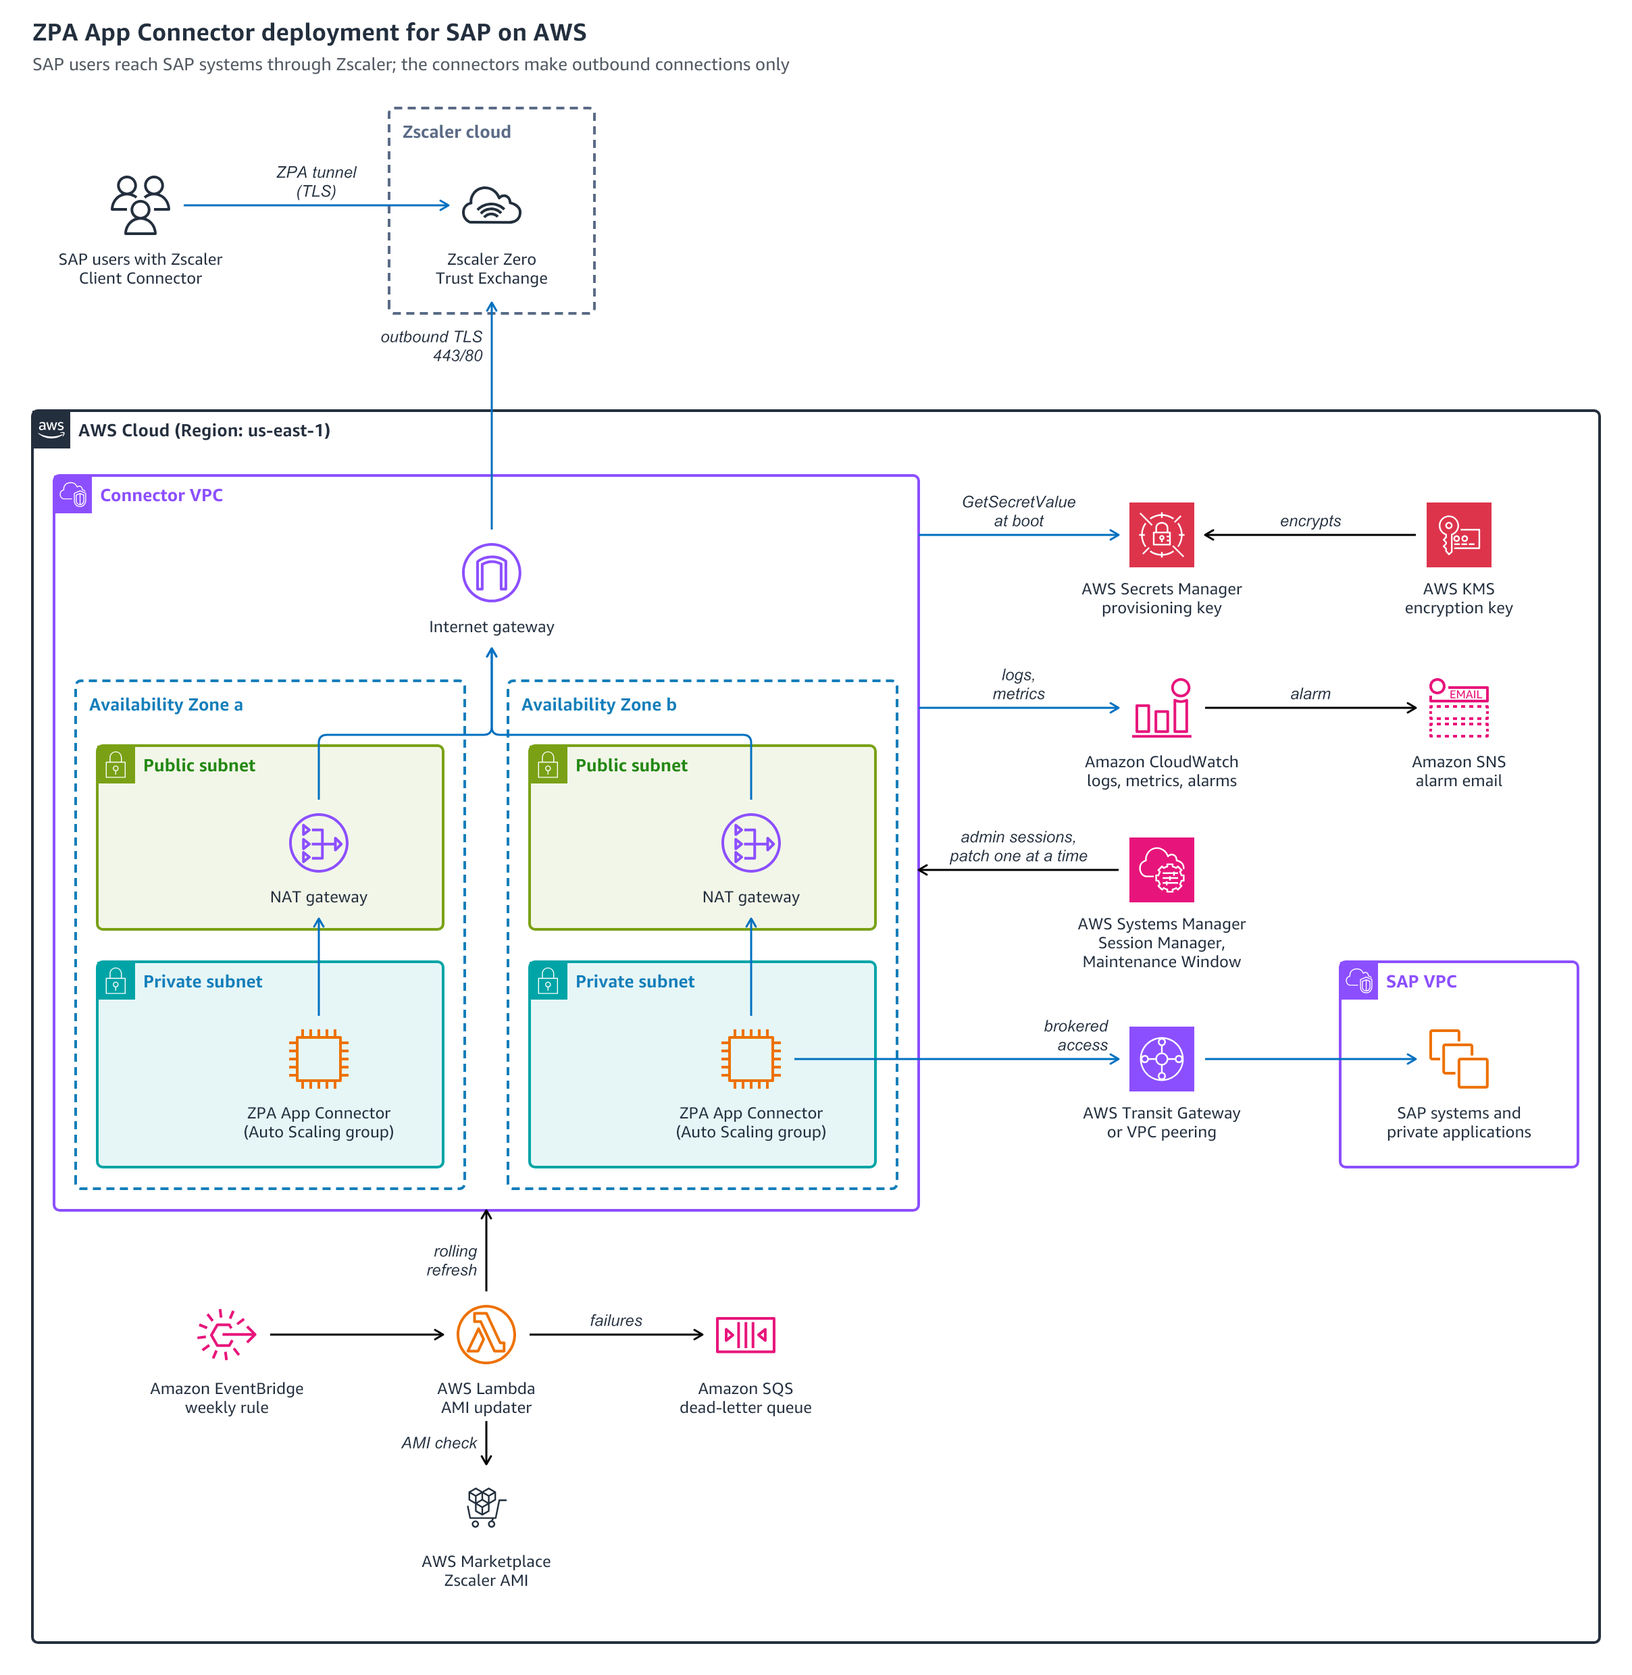
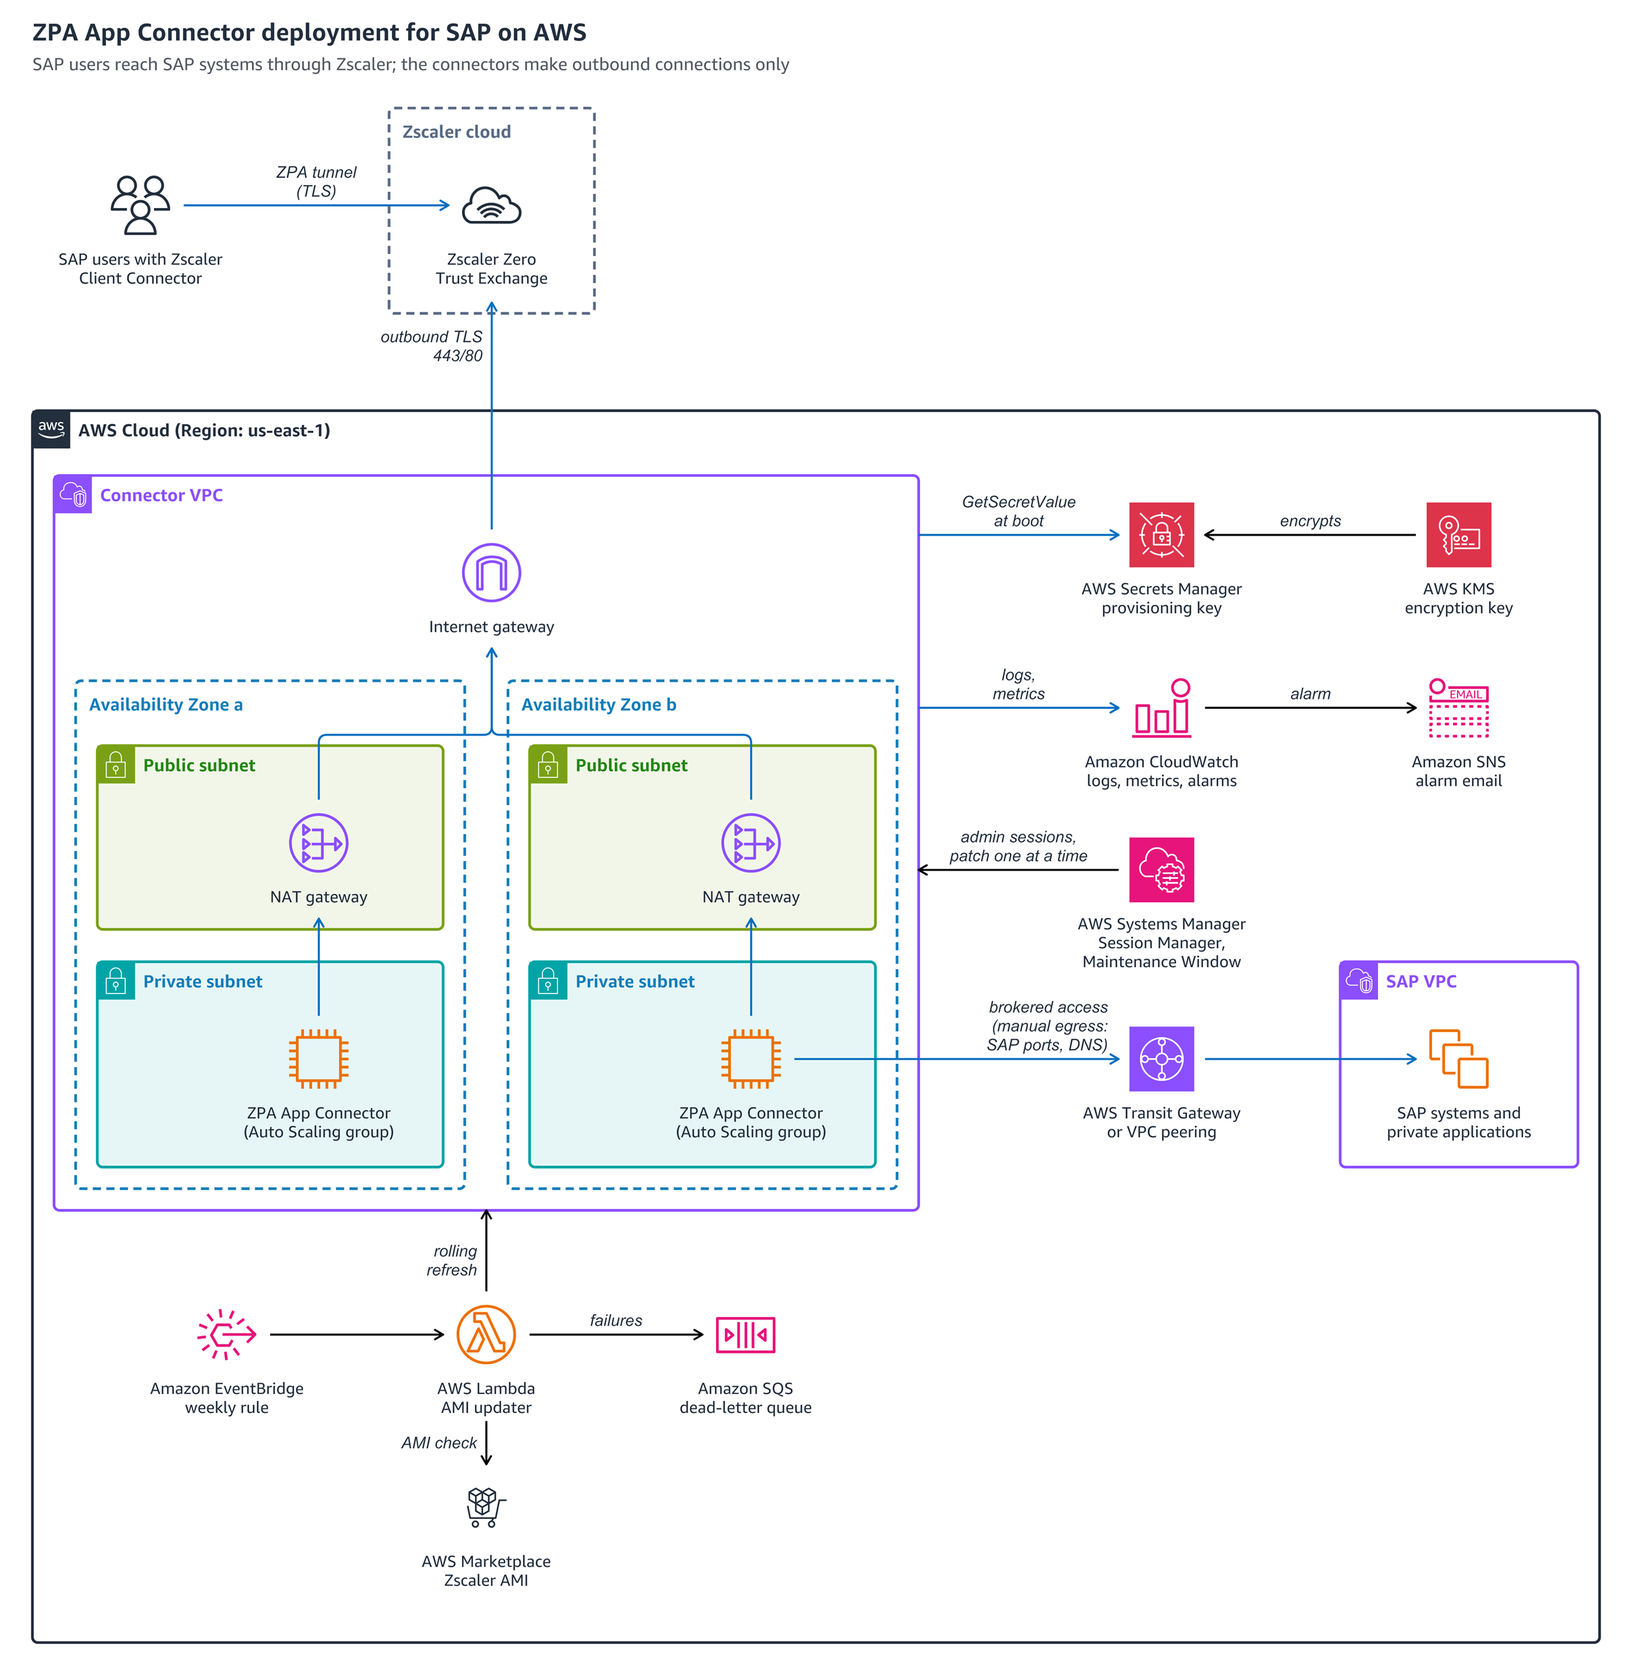
Move DNS egress to the manual post-deployment step
The stack no longer creates DNS egress rules or takes a dnsServerCidrs
parameter. The connector security group allows TCP 443 and TCP 80 to the
Zscaler cloud only. With AmazonProvidedDNS no DNS rule is needed, because
security groups don't filter the Amazon-provided DNS server (VPC+2). If the
VPC DHCP options use your own DNS servers, add UDP and TCP 53 egress to them
with the backend egress, so the connectors can resolve the SAP host names.

- lib/config.ts, cdk.json: remove dnsServerCidrs and its CIDR validation.
- lib/zpa-connector-stack.ts: remove the DNS rules; ManualBackendEgressStep
  and ActionRequired outputs now include the conditional DNS step. The
  security group description is unchanged, so the group is not replaced.
- README.md: Step 4.5 covers backend and DNS egress with an example DNS
  command; prerequisites, parameters, design decisions and the security
  table updated.
- architecture.*: the brokered-access arrow names the manual egress
  (SAP ports, DNS).

Verified: npm run build, cdk synth --strict, cdk-nag AwsSolutions 0
non-compliant; synthesized ConnectorSg egress is tcp/443 and tcp/80 only.

Changed region(s): [[0.6209, 0.5899, 0.6829, 0.652]]

diff --git a/cdk/lib/zpa-connector-stack.ts b/cdk/lib/zpa-connector-stack.ts
@@ -235,17 +235,12 @@ export class ZpaConnectorStack extends cdk.Stack {
     // (a) Zscaler cloud egress — managed by the CDK (required, no fixed CIDR list).
     sg.addEgressRule(ec2.Peer.anyIpv4(), ec2.Port.tcp(443), 'ZPA cloud (TLS tunnels + enrollment) - Zscaler publishes no fixed CIDR list');
     sg.addEgressRule(ec2.Peer.anyIpv4(), ec2.Port.tcp(80), 'ZPA cloud (bootstrap / CRL)');
-    // DNS egress, scoped to the DNS servers the connector uses (never 0.0.0.0/0 by default).
-    // Default: the VPC CIDR. The Amazon-provided VPC resolver (VPC+2) is not filtered by
-    // security groups, so the in-VPC Route 53 Resolver and its outbound-endpoint forwarding
-    // work either way. Set zpa:dnsServerCidrs when DHCP options point at DNS servers outside
-    // the VPC. Rule changes update in place; the group description above must stay unchanged.
-    const dnsCidrs = cfg.dnsServerCidrs.length > 0 ? cfg.dnsServerCidrs : [vpc.vpcCidrBlock];
-    for (const cidr of dnsCidrs) {
-      sg.addEgressRule(ec2.Peer.ipv4(cidr), ec2.Port.udp(53), `DNS to ${cidr}`);
-      sg.addEgressRule(ec2.Peer.ipv4(cidr), ec2.Port.tcp(53), `DNS (TCP fallback) to ${cidr}`);
-    }
-    // (b) Backend application egress is NOT created here — see manual step below.
+    // DNS egress is NOT created here. With AmazonProvidedDNS the connector resolves
+    // through the VPC resolver (VPC+2), which security groups do not filter, so no rule
+    // is needed. If the VPC DHCP options point at your own DNS servers, add UDP and TCP 53
+    // egress to those servers as part of the manual post-deployment step (b), so the
+    // connectors can resolve the DNS names of the target SAP systems.
+    // (b) Backend application egress (and any DNS egress) is NOT created here - see manual step below.
 
     // ------------------------------------------------------------------
     // 6. CloudWatch: log group + agent config in SSM Parameter Store
@@ -712,12 +707,14 @@ export class ZpaConnectorStack extends cdk.Stack {
       value:
         `POST-DEPLOY (manual): add backend app egress to SG ${sg.securityGroupId}. ` +
         `The connector INITIATES sessions to backends, so it needs egress to the app ports/CIDRs it serves ` +
-        `(over and above 443/80 to the Zscaler cloud). Confirm the backend supernet CIDR + required ports with the app owner, then e.g.: ` +
+        `(over and above 443/80 to the Zscaler cloud). If the VPC DHCP options use your own DNS servers instead of AmazonProvidedDNS, ` +
+        `also add UDP and TCP 53 egress to those servers so the connector can resolve the SAP host names. ` +
+        `Confirm the backend supernet CIDR + required ports with the app owner, then for example: ` +
         `aws ec2 authorize-security-group-egress --group-id ${sg.securityGroupId} --region ${cfg.region} ` +
         `--ip-permissions "IpProtocol=-1,IpRanges=[{CidrIp=<BACKEND_SUPERNET_CIDR>,Description=backend apps}]"`,
     });
     new cdk.CfnOutput(this, 'ActionRequired', {
-      value: `1) Populate secret '${cfg.secretName}' with the ZPA provisioning key, then refresh the ASG.  2) Add backend app egress to SG ${sg.securityGroupId} (see ManualBackendEgressStep).`,
+      value: `1) Populate secret '${cfg.secretName}' with the ZPA provisioning key, then refresh the ASG.  2) Add backend app egress, and DNS egress if you use your own DNS servers, to SG ${sg.securityGroupId} (see ManualBackendEgressStep).`,
     });
   }
 }

diff --git a/cdk/lib/config.ts b/cdk/lib/config.ts
@@ -40,13 +40,6 @@ export interface ZpaConfig {
    *                        as accepted exceptions. Choose this only where a dedicated CMK is not wanted.
    */
   encryptionKeyType: 'aws-managed' | 'customer-managed';
-  /**
-   * IPv4 CIDRs the connector may send DNS (UDP/TCP 53) to. Default: empty, which scopes DNS to the VPC CIDR.
-   * Set this to your DNS server IPs (as /32s) when the VPC DHCP options point at DNS servers outside the VPC.
-   * The Amazon-provided VPC resolver is not filtered by security groups, so the default works with the
-   * in-VPC Route 53 Resolver (including outbound-endpoint forwarding).
-   */
-  dnsServerCidrs: string[];
   /** SSM PatchGroup tag value binding connectors to the sequential patch path. */
   patchGroup: string;
   /** Zscaler ZPA App Connector Marketplace product code. */
@@ -107,7 +100,6 @@ export function loadZpaConfig(app: cdk.App): ZpaConfig {
     encryptionKeyType: (String(pick('encryptionKeyType') ?? 'customer-managed').toLowerCase() === 'aws-managed'
       ? 'aws-managed'
       : 'customer-managed') as 'aws-managed' | 'customer-managed',
-    dnsServerCidrs: asStrArray(pick('dnsServerCidrs')).filter((s) => s.length > 0),
     patchGroup: String(pick('patchGroup') ?? 'zpa-sequential'),
     zpaProductCode: String(pick('zpaProductCode') ?? 'by1wc5269g0048ix2nqvr0362'),
     enableAmiUpdater: asBool(pick('enableAmiUpdater'), true),
@@ -133,10 +125,6 @@ export function loadZpaConfig(app: cdk.App): ZpaConfig {
   }
   if (cfg.enableAlarms && !cfg.alarmEmail) {
     errs.push('zpa:alarmEmail is required when enableAlarms is true (or set enableAlarms=false)');
-  }
-  const cidrRe = /^(25[0-5]|2[0-4]\d|1?\d?\d)(\.(25[0-5]|2[0-4]\d|1?\d?\d)){3}\/(3[0-2]|[12]?\d)$/;
-  for (const c of cfg.dnsServerCidrs) {
-    if (!cidrRe.test(c)) errs.push(`zpa:dnsServerCidrs entry '${c}' is not an IPv4 CIDR (for a single server use a.b.c.d/32)`);
   }
   const rawKeyType = pick('encryptionKeyType');
   if (rawKeyType !== undefined && rawKeyType !== null && rawKeyType !== '') {

diff --git a/cdk/README.md b/cdk/README.md
@@ -79,7 +79,7 @@ Put the following resources in place first. The precheck scripts (`scripts/prech
 | **Private subnets** | Exactly two, in two different Availability Zones, each /27 or larger. |
 | **Outbound internet** | A NAT gateway for each subnet. Interface endpoints alone aren't enough, because the connector needs general outbound access to the Zscaler cloud. |
 | **Routing to workloads** | Routes from the connector subnets to the private application VPCs, through Transit Gateway or VPC peering. Accept the attachments, and add the return routes. |
-| **DNS** | The connector VPC must resolve the internal application domains. Use Amazon Route 53 Resolver conditional forwarding or a DNS forwarder. |
+| **DNS** | The connector VPC must resolve the internal application domains. Use Amazon Route 53 Resolver conditional forwarding or a DNS forwarder. If the VPC uses your own DNS servers, add DNS egress to them after deployment (see Step 4.5). |
 | **AWS Marketplace subscription** | Accept the Zscaler ZPA App Connector subscription, product code `by1wc5269g0048ix2nqvr0362`. You do this once for each account, on the console, because there's no API to accept the terms. Without it, the Auto Scaling group can't launch instances. The subscription is free on [the AWS Marketplace listing](https://aws.amazon.com/marketplace/pp?sku=by1wc5269g0048ix2nqvr0362). |
 | **ZPA Admin Portal** | A provisioning key, with a reuse limit equal to or greater than the Auto Scaling group maximum size. |
 | **Auto Scaling service-linked role** | `AWSServiceRoleForAutoScaling` must exist. The AWS KMS key policy names it, and AWS KMS rejects a policy that names a role that doesn't exist yet. AWS creates the role the first time you use an Auto Scaling group in the account. In a new account, create it once with `aws iam create-service-linked-role --aws-service-name autoscaling.amazonaws.com`. |
@@ -149,9 +149,9 @@ aws --profile <profile> --region <region> autoscaling start-instance-refresh \
   --preferences '{"MinHealthyPercentage":50,"InstanceWarmup":300}'
 ```
 
-### Step 4.5: Add backend application egress (manual, required)
+### Step 4.5: Add backend application and DNS egress (manual)
 
-The stack's security group allows outbound traffic to the **Zscaler cloud** on TCP 443 and 80. It also allows **DNS** on port 53, scoped by `dnsServerCidrs`. It doesn't allow traffic to the **backend applications** that the fleet brokers to. Only you know those ports and CIDRs, and a wrong guess built into the template is worse than an explicit, reviewed rule.
+The stack's security group allows outbound traffic to the **Zscaler cloud** on TCP 443 and 80 only. It doesn't allow traffic to the **backend applications** that the fleet brokers to, or to your **DNS servers**. Only you know those ports and CIDRs, and a wrong guess built into the template is worse than an explicit, reviewed rule. The backend rule is always required. The DNS rule depends on how the VPC resolves names.
 
 The App Connector **opens** the session to the backend. Without this rule, it drops its own outbound packets, and the application is unreachable even though enrollment succeeds. The Zscaler and AWS Deployment Guide requires this rule too (Deploy App Connectors, step 12). It asks for egress *"along with any required ports to access the applications the App Connector supports."*
 
@@ -165,7 +165,21 @@ aws --profile <profile> --region <region> ec2 authorize-security-group-egress \
 
 For a tighter rule, allow only the required ports. Don't send backend egress to `0.0.0.0/0`.
 
-The stack already scopes DNS: to the VPC CIDR by default, or to the CIDRs in `dnsServerCidrs`. Security groups don't filter traffic to the Amazon-provided DNS server. So the default works with the in-VPC Route 53 Resolver. Set `dnsServerCidrs` only when the VPC DHCP options point at DNS servers outside the VPC.
+The connectors must resolve the DNS names of the target SAP systems. Check the DHCP options set of the connector VPC to decide whether you need a DNS rule:
+
+- **AmazonProvidedDNS:** no rule is needed. Security groups don't filter traffic to the Amazon-provided DNS server. The connectors reach the Route 53 Resolver and its forwarding rules without a rule.
+- **Your own DNS servers** (for example, Active Directory domain controllers or on-premises DNS): add UDP and TCP 53 egress to each DNS server. TCP 53 covers large responses.
+
+The following command adds DNS egress to one DNS server. Repeat it for each server:
+
+```bash
+aws --profile <profile> --region <region> ec2 authorize-security-group-egress \
+  --group-id <SecurityGroupId-from-outputs> \
+  --ip-permissions "IpProtocol=udp,FromPort=53,ToPort=53,IpRanges=[{CidrIp=<DNS_SERVER_IP>/32,Description=DNS}]" \
+                   "IpProtocol=tcp,FromPort=53,ToPort=53,IpRanges=[{CidrIp=<DNS_SERVER_IP>/32,Description=DNS}]"
+```
+
+If the backend rule already allows all traffic to a supernet that contains the DNS servers, it covers DNS too. Don't send DNS egress to `0.0.0.0/0`.
 
 ### Step 5: Verify
 
@@ -220,7 +234,6 @@ The following table lists the context keys, their defaults, and what they contro
 | `instanceType` | No | `m5a.large` | Zscaler's production recommendation. For low traffic, `m5a.xlarge` and `t3.xlarge` also work. |
 | `volumeSizeGiB` | No | `80` | Root gp3 volume. The AMI updater grows it if a future AMI needs more space. |
 | `secretName` | No | `zpa-connector` | Provisioning-key secret. The stack creates it with a placeholder, so the name must not exist yet. It's retained when you delete the stack. |
-| `dnsServerCidrs` | No | `[]` (the VPC CIDR) | IPv4 CIDRs for DNS egress on UDP and TCP 53. List your DNS server IP addresses as `/32` entries when the VPC DHCP options use DNS servers outside the VPC. |
 | `encryptionKeyType` | No | `customer-managed` | Encryption for the secret, root volumes, log group, alarm topic, and dead-letter queue. `customer-managed` (default) uses one AWS KMS customer managed key with rotation. `aws-managed` uses AWS managed and AWS owned keys. It needs the `AWSServiceRoleForAutoScaling` role (see Prerequisites). |
 | `patchGroup` | No | `zpa-sequential` | Tag that binds connectors to the one-at-a-time patch path. |
 | `enableAmiUpdater` | No | `true` | Provision the weekly AMI-updater Lambda function and EventBridge rule. |
@@ -235,10 +248,9 @@ The following table lists the context keys, their defaults, and what they contro
 
 The stack makes the following design decisions:
 
-1. **An outbound-only security group, with three egress classes.** App Connectors need no inbound access, so the security group has **no inbound rule**. Egress is split into three classes:
-   - **DNS (managed by the stack):** UDP and TCP **53**, to the VPC CIDR by default or to the CIDRs in `dnsServerCidrs`. It's never `0.0.0.0/0` unless you set it.
+1. **An outbound-only security group, with two egress classes.** App Connectors need no inbound access, so the security group has **no inbound rule**. Egress is split into two classes:
    - **The Zscaler cloud (managed by the stack):** **TCP 80 and 443** to **`0.0.0.0/0`**, by design. Zscaler doesn't publish a stable IP address list for App Connector destinations. The connector reaches the *nearest* Zscaler broker or Service Edge, and those endpoints change over time and by Region. Zscaler's guidance is based on ports and domains, not CIDRs, so a fixed CIDR list would break connectivity. The compensating controls are no inbound access, egress on the required ports only, and TLS on all outbound cloud traffic.
-   - **The backend applications (manual, after deployment):** the ports and CIDRs of the private applications that the fleet brokers to. The stack doesn't create this rule, because only the operator knows the values. The `ManualBackendEgressStep` stack output gives the security group ID and an example command (see Step 4.5). The Zscaler guide requires this egress in addition to the cloud ports. Scope it to the backend supernet, not `0.0.0.0/0`.
+   - **The backend applications and DNS (manual, after deployment):** the ports and CIDRs of the private applications that the fleet brokers to. If the VPC doesn't use AmazonProvidedDNS, this class also includes UDP and TCP 53 to your DNS servers. The stack doesn't create these rules, because only the operator knows the values. The `ManualBackendEgressStep` stack output gives the security group ID and an example command (see Step 4.5). The Zscaler guide requires this egress in addition to the cloud ports. Scope it to the backend supernet and the DNS server addresses, not `0.0.0.0/0`.
 
 2. **Session Manager for administration.** There's no SSH key, no bastion host, and no inbound port 22. Break-glass access is through Session Manager, which AWS CloudTrail audits.
 
@@ -263,7 +275,7 @@ The stack makes the following design decisions:
 
 8. **A gp3 root volume.** Cost-efficient baseline storage with fixed IOPS. The AMI updater grows the volume if a newer AMI's snapshot is larger.
 
-9. **Configuration that fails fast.** The typed configuration loader validates inputs when you synthesize. It checks for two subnets, a minimum capacity of at least 2, valid DNS CIDRs, and an alarm email when alarms are on. So misconfigurations surface before any resource is created.
+9. **Configuration that fails fast.** The typed configuration loader validates inputs when you synthesize. It checks for two subnets, a minimum capacity of at least 2, and an alarm email when alarms are on. So misconfigurations surface before any resource is created.
 
 ## Security
 
@@ -272,7 +284,7 @@ The following table lists the security controls.
 | Control | Description |
 |---|---|
 | **No inbound access** | The connector security group has no inbound rules. App Connectors make outbound connections only. |
-| **Restricted egress** | Egress is limited to TCP 80 and 443 for the Zscaler cloud, and DNS on port 53, scoped to the VPC CIDR or `dnsServerCidrs`. The 80 and 443 destination is `0.0.0.0/0` because Zscaler publishes no fixed IP address list for App Connectors. The control is the port restriction and TLS, not the CIDR. |
+| **Restricted egress** | The stack allows egress on TCP 80 and 443 for the Zscaler cloud only. You add backend and, if required, DNS egress, scoped to known CIDRs. The 80 and 443 destination is `0.0.0.0/0` because Zscaler publishes no fixed IP address list for App Connectors. The control is the port restriction and TLS, not the CIDR. |
 | **Session Manager administration** | Administration through Session Manager, with no SSH, no bastion host, and no key pair. |
 | **Least-privilege IAM** | The instance role grants `secretsmanager:GetSecretValue` on the exact secret ARN, plus the managed policies for Systems Manager, the CloudWatch agent, and patching. The AMI-updater role can change only this stack's launch template and Auto Scaling group. Its `ec2:RunInstances` and `iam:PassRole` permissions are limited to this launch template and to the connector role. |
 | **Secret handling** | The provisioning key is held only in Secrets Manager, read at boot, and never in code or state. The secret is retained when you delete the stack. |
